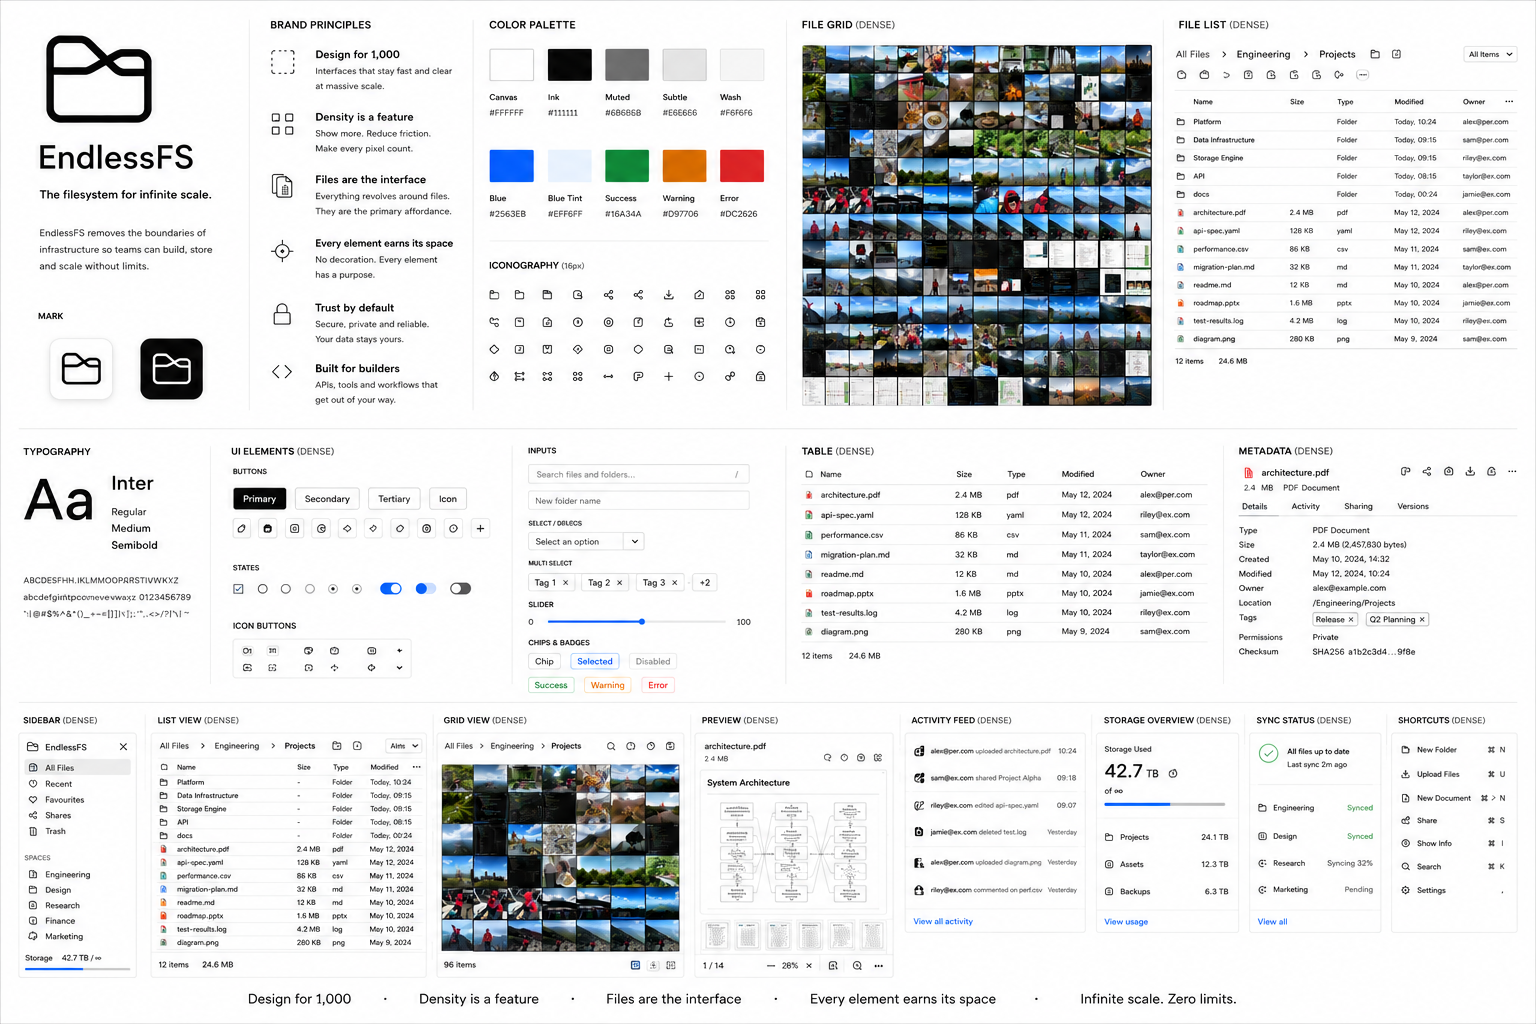
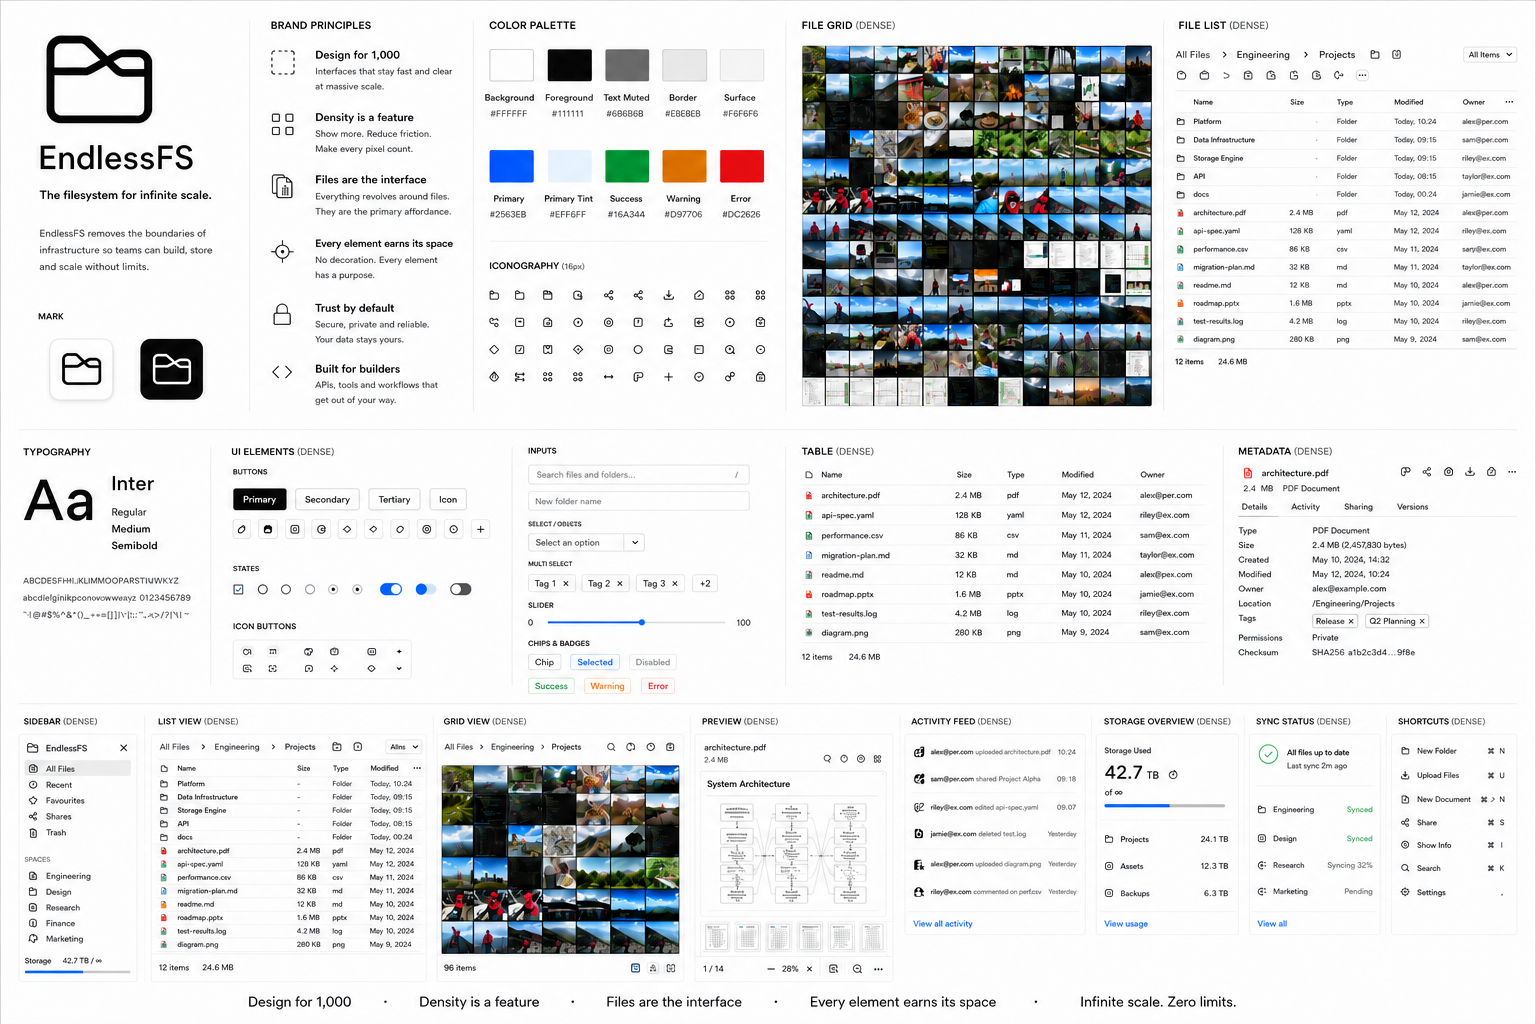
docs: name palette tokens by purpose

diff --git a/docs/ui-rebuild-plan.md b/docs/ui-rebuild-plan.md
@@ -24,12 +24,12 @@ The supplied PNG boards are reference artifacts, not production assets. Producti
 
 The reference boards establish these non-negotiable visual qualities:
 
-- Monochrome canvas, typography, and structure dominate. Blue appears only for active, focused, and selected states; semantic colors appear only when their meaning is needed.
+- Background, Foreground, Text Muted, Border, and Surface dominate. Primary appears only for active, focused, and selected states; Success, Warning, and Error appear only when their meaning is needed.
 - File content dominates a compact navigation rail and toolbar. Controls are aligned, restrained, and no larger than operability requires.
 - List rows are dense and scan like a professional filesystem table, with stable columns, subtle dividers, aligned metadata, and no per-row cards.
 - Media tiles form an edge-to-edge contact sheet with stable square geometry, effectively no gaps, no captions, and selection drawn as an overlay instead of surrounding chrome.
 - Secondary work happens in a contextual side sheet on wide screens and a full-screen surface on narrow screens. Small centered dialogs are reserved for short, consequential decisions.
-- Transfer and outcome UI is compact and transient. Routine success does not become persistent green decoration.
+- Transfer and outcome UI is compact and transient. Routine success does not become persistent Success decoration.
 - The Infinite Folder mark is monochrome, asymmetric, continuous, and recognizable before the infinity motif becomes apparent. The current text `∞` placeholder is not acceptable production branding.
 - Corners, borders, shadows, copy, and whitespace are used sparingly. Geometry remains stable while data and previews load.
 
@@ -50,7 +50,7 @@ The presentation conflicts with the new direction in several concrete ways:
 | Panels, settings cards, dialogs, spacing, and headings use a spacious SaaS treatment. | Dense filesystem-tool geometry, sheets for substantial secondary UI, and compact type hierarchy. |
 | Moving ordinary files to Trash asks for confirmation. | Execute the reversible action immediately and offer a brief Undo path; keep confirmation for permanent deletion and empty Trash. |
 | Manual “Load more” controls expose API pagination as the primary browsing model. | Preserve bounded server pagination but progressively fetch into a continuous virtualized presentation. |
-| Current built-in light tokens use a blue-gray palette and large radii. | Adopt the brand’s exact neutral and interaction palette, then tune typed density/radius tokens without weakening custom-theme safety. |
+| The current Theme API uses ambiguous roles such as `color.accent`, while some component fallbacks embed raw values. | Move components to a canonical purpose-based color contract and tune typed density/radius tokens without weakening custom-theme safety. |
 | Loading and routine workflow copy is often explanatory or promotional. | Direct, brief, functional language that appears only when it helps the user act or recover. |
 
 ## Product and specification decisions
@@ -58,6 +58,8 @@ The presentation conflicts with the new direction in several concrete ways:
 - The brand guide mentions automatic deletion after 30 days, but v1 section 9.11 explicitly says Trash has no automatic retention deadline. The rebuild must not display or imply a 30-day policy. Such retention needs its own approved specification and storage-lifecycle implementation.
 - The light-mode board is the only supplied full UI reference. Layout and interaction must remain identical in dark mode, but dark colors should continue through the current safe built-in theme until an approved dark visual board exists. Dark mode cannot be omitted or treated as complete based on the light board.
 - Inter is not included in the attachment, and runtime-fetched fonts are forbidden. Use Inter only after adding pinned, licensed WOFF2 files to the validated built-in theme assets and recording their license; otherwise retain the neutral embedded/system fallback.
+- Color token identities describe purpose, never a hue or the current rendered appearance. The target roles are `color.background`, `color.foreground`, `color.text.muted`, `color.border`, `color.surface`, `color.primary`, `color.primary.tint`, `color.success`, `color.warning`, and `color.error`. Components must not consume raw hex values or hue-named aliases.
+- Replacing the existing Theme API 1.x `color.accent` contract is a versioned compatibility change, not a search-and-replace. Specify and test the migration before removing old names so installed themes either map deterministically to the new roles or fail compatibility checks clearly; never silently reinterpret a token.
 - Continuous browsing does not remove bounded server pagination. The client requests successive pages as needed, virtualizes rendered rows/tiles, preserves errors and retry boundaries, and never claims that loaded-item filtering searches unloaded content.
 - A compact visible control may use a larger invisible hit area where appropriate, but keyboard focus, semantic names, pointer behavior, and the 320 CSS-pixel layout remain application-owned and testable.
 
@@ -106,10 +108,10 @@ Exit: the regression and visual acceptance matrix is reviewed before implementat
 
 ### Phase 1 — Brand assets and typed foundations
 
-1. Write failing theme/media tests for the required logo, mark, favicon, file-operation icons, exact brand colors, compact density, contrast, and safe fallback.
+1. Write failing theme/media tests for the required logo, mark, favicon, file-operation icons, exact semantic color roles and values, compact density, contrast, and safe fallback.
 2. Produce clean, individually addressable SVG assets from the logo and UI reference boards. Validate favicon-scale legibility and the static SVG subset; never ship a crop of the reference board as an application asset.
 3. Decide and document the Inter font source, version, subset, license, WOFF2 hashes, and inventory entry before embedding it. If those inputs are not approved, keep the system fallback.
-4. Update existing typed theme tokens first. Add a Theme API token or semantic media slot only when no existing typed contract can express a required visual role; bump the compatible minor API and prove older-theme inheritance when adding one.
+4. Specify the purpose-based color contract and its Theme API compatibility path before changing consumers. Add a token or semantic media slot only when no existing typed contract can express a required role; use a compatible minor addition or a deliberate major migration according to the compatibility rules, and prove older-theme handling either way.
 5. Update both immutable built-in themes through the ordinary compiler and update the theme conformance fixture before application CSS consumes the new values.
 
 Exit: `theme-check`, `test-theme`, media validation, contrast, inheritance, and fallback tests pass, and the light foundation matches the reference palette and mark.
@@ -181,12 +183,12 @@ Exit: every item in the acceptance matrix and specification section 24 is eviden
 
 | Area | Required proof |
 |---|---|
-| Visual fidelity | Side-by-side review against both imported boards; exact light tokens; approved mark geometry; dense rows; edge-to-edge grid; compact sheets/transfers; stable async geometry. |
+| Visual fidelity | Side-by-side review against both imported boards; exact purpose-based light tokens; approved mark geometry; dense rows; edge-to-edge grid; compact sheets/transfers; stable async geometry. |
 | Functional parity | Existing identity, browse, transfer, preview, file operation, Trash, share, settings, theme, admin, recovery, and public-share workflows pass without backend regression. |
 | Accessibility | Keyboard-only workflows, semantic names/relationships, visible focus, sensible restoration, live status, dialog/sheet behavior, non-color cues, reduced motion, and 320px operation. |
 | Scale and continuity | Bounded rendered DOM for 1,000 rows and 10,000 tiles, visible/overscan preview loading, progressive page fetch, no whole-workspace blocking, no unexpected layout shift. |
 | Security and privacy | CSP and headers unchanged or stronger; text-only rendering of untrusted values; no persistent secrets; exact-origin/CSRF behavior preserved; no provider key/capability leakage; no unapproved network request. |
-| Themes | Closed data-only boundary remains intact; complete light/dark parents; contrast and fallback pass; older compatible themes inherit any additive slots; application owns layout and behavior. |
+| Themes | Closed data-only boundary remains intact; all color names encode purpose; complete light/dark parents; contrast and fallback pass; compatibility behavior is explicit; application owns layout and behavior. |
 | Reproducibility | No Node or frontend framework; all assets embedded and licensed; Nix remains the only public task interface; `nix flake check` is green. |
 
 Screenshots are review evidence, not the only test. Behavioral, geometry, accessibility, security, and scale assertions must fail deterministically when the contract regresses.

diff --git a/docs/brand/README.md b/docs/brand/README.md
@@ -50,26 +50,29 @@ EndlessFS is predominantly monochrome. Color communicates interaction state or s
 
 | Token | Value | Purpose |
 |---|---:|---|
-| Canvas | `#FFFFFF` | Primary workspace and surfaces |
-| Ink | `#111111` | Primary text, strong controls, primary actions, ordinary progress |
-| Muted | `#6B6B6B` | Secondary metadata |
-| Subtle | `#E8E8E8` | Dividers, disabled structure, skeletons |
-| Wash | `#F6F6F6` | Hover and quiet surfaces |
-| Blue | `#2563EB` | Active, focus, and selected states only |
-| Blue Tint | `#EFF6FF` | Selected/active background treatment |
+| Background | `#FFFFFF` | Primary workspace behind content |
+| Foreground | `#111111` | Primary text, strong controls, primary actions, ordinary progress |
+| Text Muted | `#6B6B6B` | Secondary text and metadata |
+| Border | `#E8E8E8` | Dividers, disabled structure, and skeletons |
+| Surface | `#F6F6F6` | Hover and quiet surfaces |
+| Primary | `#2563EB` | Active, focus, and selected states only |
+| Primary Tint | `#EFF6FF` | Selected and active background treatment |
 | Success | `#16803A` | Successful semantic states |
 | Warning | `#D97706` | Warning semantic states |
 | Error | `#D92D20` | Failure and destructive semantic states |
 
 ### Color rules
 
-- The application should read as black, white, and neutral gray at first glance.
-- Blue is an interaction-state color, not a decorative brand wash.
-- Primary actions are black; secondary actions are light.
-- Links use typography and interaction treatment rather than default blue.
-- Normal progress bars use Ink.
-- Success, warning, and error colors are strictly semantic.
-- Avoid persistent green success decoration for routine operations.
+- Token names describe purpose, never their current hue or appearance.
+- Themes may change a token's value without changing its name or meaning.
+- Components consume semantic tokens only; do not embed raw values or hue-named aliases in component rules.
+- The application should be governed by Background, Foreground, Text Muted, Border, and Surface at first glance.
+- Primary is an interaction-state role, not a decorative brand field.
+- Primary actions use Foreground; secondary actions use Surface or Background.
+- Links use typography and interaction treatment rather than a browser-default color.
+- Normal progress bars use Foreground.
+- Success, Warning, and Error are strictly semantic.
+- Avoid persistent Success decoration for routine operations.
 - Avoid large decorative color fields that compete with file content.
 
 ## Typography and iconography
@@ -140,7 +143,7 @@ Every click, tap, confirmation, dismissal, transition, pointer movement, and int
 Animation exists to communicate state, preserve spatial understanding, or replace unnecessary explanatory text. It must not decorate, delay work, shift layout, or reduce determinism.
 
 ### 18. Visual restraint creates clarity
-Use plain white surfaces, black typography, restrained neutral structure, minimal borders, and minimal decoration. Avoid excessive cards, shadows, gradients, rounded containers, and layered surfaces.
+Use plain Background surfaces, Foreground typography, restrained neutral structure, minimal borders, and minimal decoration. Avoid excessive cards, shadows, gradients, rounded containers, and layered surfaces.
 
 ### 19. The interface is a precision tool
 EndlessFS should feel dependable, fast, quiet, and exact: an instrument for working with files rather than an experience demanding attention for itself.
@@ -175,12 +178,12 @@ The reference behavior is closer to a dense photo library/contact sheet than a c
 
 ## Selection, focus, and active states
 
-Use `#2563EB` for strong active/focus/selected state and `#EFF6FF` for quiet selected/active surfaces. Focus must remain accessible, selection must not create layout shift, and blue must not be diluted through unrelated decoration. Selection patterns must scale from one item to thousands.
+Use Primary for strong active, focus, and selected states and Primary Tint for quiet selected and active surfaces. Focus must remain accessible, selection must not create layout shift, and Primary must not be diluted through unrelated decoration. Selection patterns must scale from one item to thousands. The theme assigns their concrete values.
 
 ## Buttons and controls
 
-- Primary actions: Ink (`#111111`) with high-contrast text.
-- Secondary actions: light or transparent treatment with restrained structure.
+- Primary actions: Foreground with a high-contrast label.
+- Secondary actions: Surface or transparent treatment with restrained structure.
 - Keep controls compact.
 - Never inflate controls to fill containers.
 - Use icon-only controls when meaning is established and accessible naming exists.
@@ -195,7 +198,7 @@ Tables should behave like professional file-management tools rather than spaciou
 
 - Tight row heights and minimal horizontal padding.
 - Stable columns and consistent numeric alignment.
-- Muted secondary metadata.
+- Text Muted for secondary metadata.
 - Borders only where they improve scanning.
 - Prefer subtle row states to boxing every row.
 - Remove/reorganize columns responsively without changing underlying behavior.
@@ -209,9 +212,9 @@ Uploading is a natural file operation, not a separate feature.
 - The file browsing surface acts as the drop target.
 - Do not reserve permanent space for a drop zone.
 - Transfer queues are compact, collapsible, scalable, and easy to remediate.
-- Progress uses Ink by default.
+- Progress uses Foreground by default.
 - Errors use Error only where intervention is required.
-- Successful completion resolves into normal file state rather than persistent green UI.
+- Successful completion resolves into normal file state rather than persistent Success UI.
 - Failed items are obvious without expanding every successful item.
 
 ## Loading and performance perception
@@ -281,7 +284,7 @@ Do not introduce:
 - UI expanded merely to occupy available space;
 - pagination where continuous virtualized browsing is practical;
 - excessive instructional copy;
-- blue accents without interaction-state meaning;
+- Primary treatment without interaction-state meaning;
 - loading transitions that reflow the page;
 - modal dialogs that unnecessarily hide file context;
 - separate surfaces for interactions that naturally belong to the file browser.
